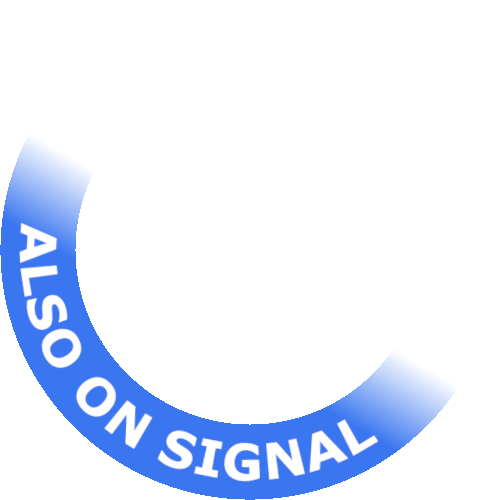
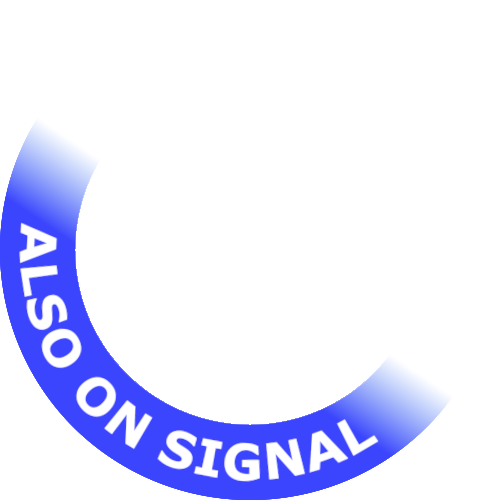
Update Signal color to the latest brand color

Changed region(s): [[0.0, 0.24, 0.81, 1.0], [0.87, 0.78, 0.9, 0.81], [0.84, 0.84, 0.87, 0.87]]

diff --git a/css/styles.css b/css/styles.css
@@ -4,7 +4,7 @@ html {
 }
 
 a, a:visited, a:active {
-    color: #3a76f0;
+    color: #3b45fd;
     text-decoration: none;
     transition: all 0.3s ease;
 }
@@ -53,7 +53,7 @@ body {
     font-size: 1.2em;
     line-height: 1em;
     font-weight: 900;
-    color: #3a76f0;
+    color: #3b45fd;
     text-transform: uppercase;
     margin: auto;
 }
@@ -213,7 +213,7 @@ body {
 
 .upload-icon {
     font-size: 50px;
-    color: #3a76f0;
+    color: #3b45fd;
     margin-bottom: 10px;
 }
 
@@ -230,7 +230,7 @@ body {
 }
 
 .file-cta {
-    background-color: #3a76f0;
+    background-color: #3b45fd;
     color: #fff;
     border: none;
     padding: 10px 20px;
@@ -374,11 +374,11 @@ body {
 }
 
 .thumbnail:hover {
-    border-color: #3a76f0;
+    border-color: #3b45fd;
 }
 
 .thumbnail.active {
-    border-color: #3a76f0;
+    border-color: #3b45fd;
 }
 
 .signal-box {
@@ -413,7 +413,7 @@ body {
 #downloadButton {
     display: block;
     margin: 10px auto;
-    background-color: #3a76f0;
+    background-color: #3b45fd;
     color: white;
     border: none;
     border-radius: 4px;
@@ -464,7 +464,7 @@ canvas {
 }
 
 #linkedinBar a:hover {
-    color: #3A76F0;
+    color: #3b45fd;
 }
 
 /* Media Queries */
